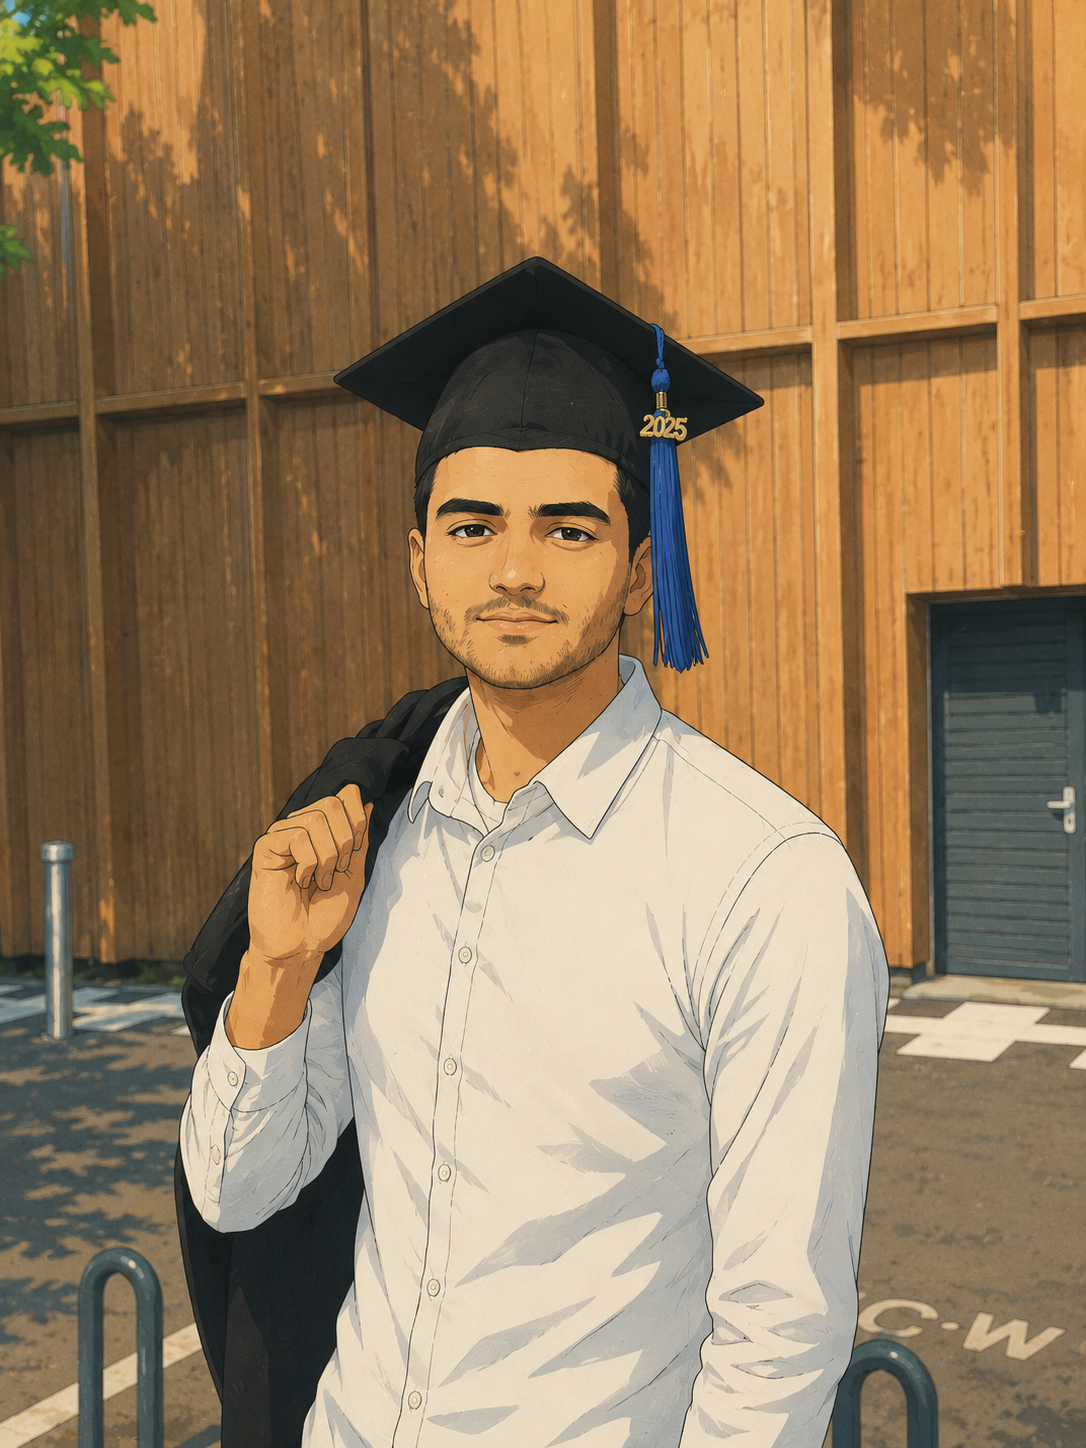
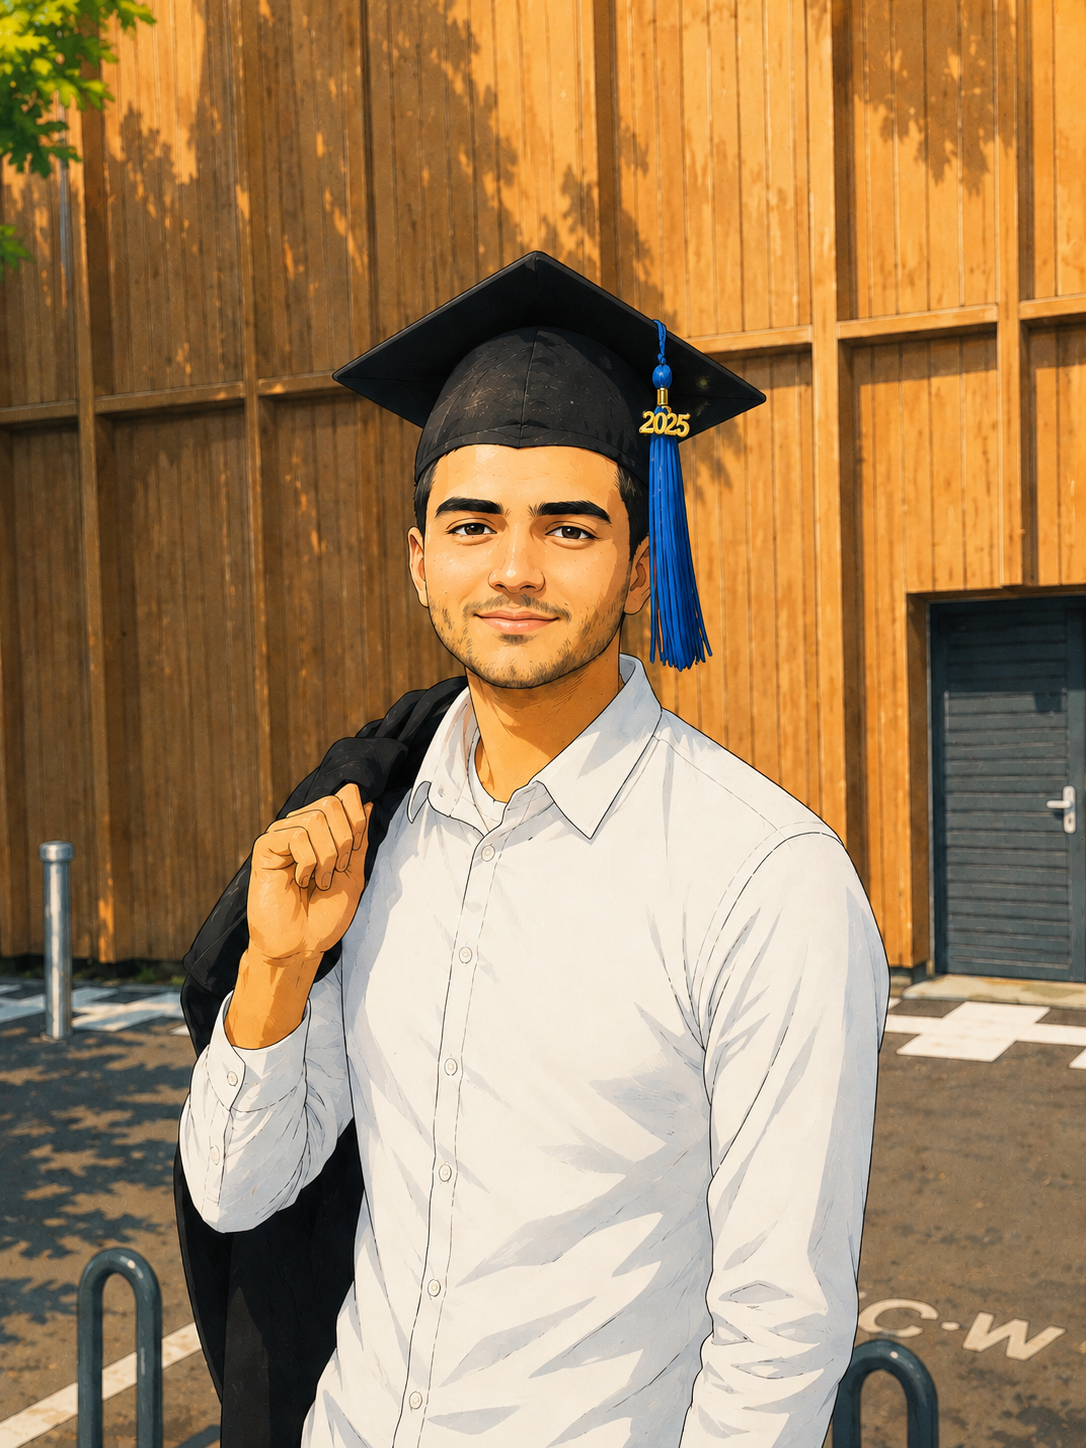
update

diff --git a/src/i18n/translations.js b/src/i18n/translations.js
@@ -16,7 +16,7 @@ export const translations = {
     hero: {
       greeting: "Hi, I'm",
       available: "Available immediately",
-      title: "Computer & Industrial Engineer",
+      title: "Computer & Industrial Engineer",      
       subtitle: "Specializing in Cybersecurity, Networks & Development",
       viewProjects: "View my projects",
       downloadCV: "Download CV",
@@ -120,9 +120,9 @@ export const translations = {
       schools: [
         {
           name: "CY Tech — Cergy Paris Université",
-          degree: "Engineering Degree — CS & Industrial",
+          degree: "Software engineer —  Master Degree",
           period: "2022 – 2025",
-          detail: "Specialization in Cybersecurity and Networks.",
+          detail: "Specialization in IT/OT, cybersecurity and development",
           logo: "/images/logos/cytech.png",
         },
         {
@@ -244,7 +244,6 @@ export const translations = {
       greeting: "Bonjour, je suis",
       available: "Disponible immédiatement",
       title: "Ingénieur Informatique et Industriel",
-      subtitle: "Spécialisé en Cybersécurité, Réseaux et Développement",
       viewProjects: "Voir mes projets",
       downloadCV: "Télécharger mon CV",
     },
@@ -347,9 +346,9 @@ export const translations = {
       schools: [
         {
           name: "CY Tech — Cergy Paris Université",
-          degree: "Diplôme d'Ingénieur — Informatique & Industriel",
+          degree: "Diplôme d'Ingénieur",
           period: "2022 – 2025",
-          detail: "Spécialisation en Cybersécurité et Réseaux.",
+          detail: "Spécialisation en IT/OT, cybersécurité, réseaux et développement.",
           logo: "/images/logos/cytech.png",
         },
         {